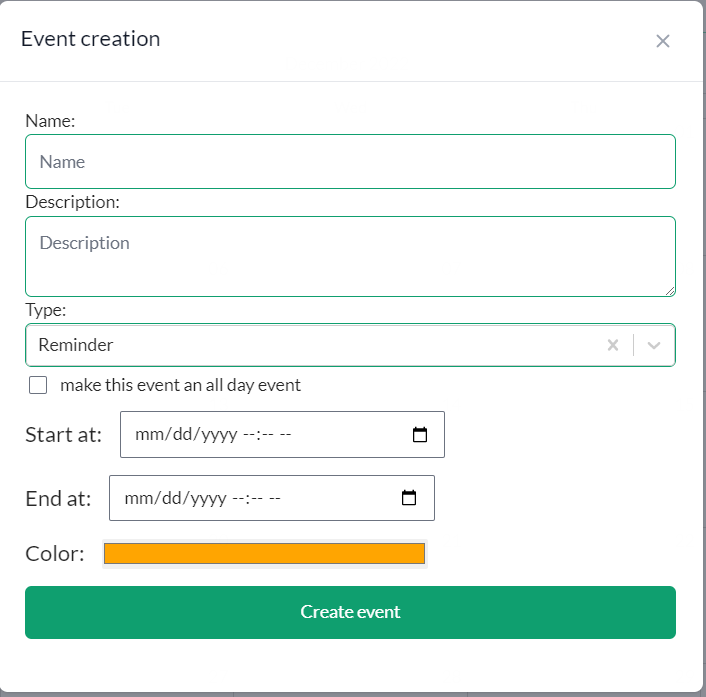
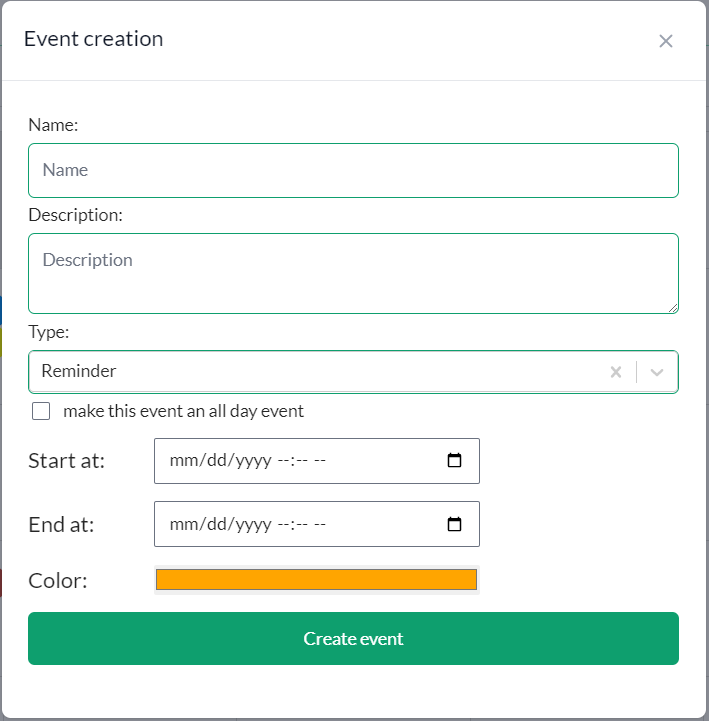
user select removed

diff --git a/client/src/components/calendar/InfoCalendarForm.jsx b/client/src/components/calendar/InfoCalendarForm.jsx
@@ -1,16 +1,14 @@
 import React, { useEffect, useState } from 'react';
 import { useDispatch, useSelector } from 'react-redux';
-import { RiFileCopy2Fill, RiMailAddLine } from 'react-icons/ri';
+import { RiFileCopy2Fill } from 'react-icons/ri';
 import { useNavigate } from 'react-router-dom';
 import { Avatar, Checkbox, Label, Button } from 'flowbite-react';
 import { CopyToClipboard } from 'react-copy-to-clipboard';
-import Select from 'react-select';
 
 import { useMessage } from '../../hooks/message.hook';
 import { Loader } from '../Loader';
 import { editCalendarOn, infoCalendarOff } from '../../store/modalSlice';
 import { deleteCalendar, updateCalendar } from '../../store/calendarSlice';
-import { usersToSelect } from '../../utils/user.utils';
 
 export const InfoCalendarForm = () => {
   const dispatch = useDispatch();
@@ -20,13 +18,7 @@ export const InfoCalendarForm = () => {
     (state) => state.calendar
   );
   const { me } = useSelector((state) => state.auth);
-  const { users, isLoading: usersLoading } = useSelector((state) => state.user);
   const [isHidden, setIsHidden] = useState(!!currentCalendar.isHidden);
-  const [userOptions, setUserOptions] = useState([]);
-
-  useEffect(() => {
-    setUserOptions(usersToSelect(users));
-  }, [usersLoading]);
 
   useEffect(() => {
     setIsHidden(!!currentCalendar.isHidden);
@@ -110,21 +102,6 @@ export const InfoCalendarForm = () => {
         && currentCalendar.type !== 'main' && (
           <>
             <div className='border-t my-3'></div>
-            <div className='flex'>
-              <Select
-                className='basic-single w-9/12 p-0 pt-2 m-0'
-                classNamePrefix='select'
-                isClearable
-                isSearchable
-                isMulti
-                name='categories'
-                options={userOptions}
-                placeholder='Type user login to invite.'
-              />
-              <button className='w-3/12 flex items-center justify-center text-white rounded-md bg-green-500 hover:bg-green-600 hover:shadow-md hover:shadow-green-400'>
-                <RiMailAddLine color='white' className='mr-3' /> Send invite
-              </button>
-            </div>
             <div className='w-full  mt-3 flex border rounded-md border-green-200'>
               <input
                 disabled

diff --git a/client/src/components/event/InfoEventForm.jsx b/client/src/components/event/InfoEventForm.jsx
@@ -2,11 +2,9 @@ import React, { useEffect, useState } from 'react';
 import { useDispatch, useSelector } from 'react-redux';
 import { useNavigate } from 'react-router-dom';
 import { Avatar, Checkbox, Label, Button } from 'flowbite-react';
-import Select from 'react-select';
 import { CopyToClipboard } from 'react-copy-to-clipboard';
-import { RiFileCopy2Fill, RiMailAddLine } from 'react-icons/ri';
+import { RiFileCopy2Fill } from 'react-icons/ri';
 import { useMessage } from '../../hooks/message.hook';
-import { usersToSelect } from '../../utils/user.utils';
 
 import { Loader } from '../Loader';
 import { deleteEvent, updateEvent } from '../../store/eventSlice';
@@ -17,15 +15,9 @@ export const InfoEventForm = () => {
   const message = useMessage();
   const navigate = useNavigate();
 
-  const { users, isLoading: usersLoading } = useSelector((state) => state.user);
   const { eventLoading, event } = useSelector((state) => state.event);
   const { me } = useSelector((state) => state.auth);
   const [isPerformed, setIsPerformed] = useState(!!event.isPerformed);
-  const [userOptions, setUserOptions] = useState([]);
-
-  useEffect(() => {
-    setUserOptions(usersToSelect(users));
-  }, [usersLoading]);
 
   useEffect(() => {
     setIsPerformed(!!event.isPerformed);
@@ -124,21 +116,6 @@ export const InfoEventForm = () => {
         && event.type !== 'holiday' && (
           <>
             <div className='border-t my-3'></div>
-            <div className='flex'>
-              <Select
-                className='basic-single w-9/12 p-0 pt-2 m-0'
-                classNamePrefix='select'
-                isClearable
-                isSearchable
-                isMulti
-                name='categories'
-                options={userOptions}
-                placeholder='Type user login to invite.'
-              />
-              <button className='w-3/12 flex items-center justify-center text-white rounded-md bg-green-500 hover:bg-green-600 hover:shadow-md hover:shadow-green-400'>
-                <RiMailAddLine color='white' className='mr-3' /> Send invite
-              </button>
-            </div>
             <div className='w-full  mt-3 flex border rounded-md border-green-200'>
               <input
                 disabled

diff --git a/client/src/components/event/CreateEventForm.jsx b/client/src/components/event/CreateEventForm.jsx
@@ -75,7 +75,7 @@ export const CreateEventForm = () => {
     <form
       onSubmit={createHandler}
       className='flex flex-col justify-center items-center w-full mb-4'>
-      <label htmlFor='name' className='self-start'>
+      <label htmlFor='name' className='self-start my-1'>
         Name:
       </label>
       <div className='flex tems-center justify-center w-full border border-green-500 rounded-md hover:shadow-md hover:shadow-green-400'>
@@ -89,7 +89,7 @@ export const CreateEventForm = () => {
           placeholder='Name'
         />
       </div>
-      <label htmlFor='desc' className='self-start'>
+      <label htmlFor='desc' className='self-start my-1'>
         Description:
       </label>
       <div className='flex items-center justify-center w-full border border-green-500 rounded-md hover:shadow-md hover:shadow-green-400'>
@@ -103,7 +103,7 @@ export const CreateEventForm = () => {
           placeholder='Description'
         />
       </div>
-      <label htmlFor='desc' className='self-start'>
+      <label htmlFor='desc' className='self-start my-1'>
         Type:
       </label>
       <div className='flex items-center w-full border border-green-500 rounded-md hover:shadow-md hover:shadow-green-400'>
@@ -133,7 +133,7 @@ export const CreateEventForm = () => {
         </label>
       </div>
       <div className='flex items-center self-start w-full'>
-        <label htmlFor='start' className='text-xl mr-3'>
+        <label htmlFor='start' className='text-xl mr-3 w-1/4 lg:w-1/6'>
           Start at:
         </label>
         <input
@@ -146,7 +146,7 @@ export const CreateEventForm = () => {
         />
       </div>
       <div className='flex items-center self-start w-full'>
-        <label htmlFor='start' className='text-xl mr-3'>
+        <label htmlFor='start' className='text-xl mr-3 w-1/4 lg:w-1/6'>
           End at:
         </label>
         <input
@@ -159,7 +159,7 @@ export const CreateEventForm = () => {
         />
       </div>
       <div className='flex items-center self-start w-full'>
-        <label htmlFor='start' className='text-xl mr-3'>
+        <label htmlFor='start' className='text-xl mr-3 w-1/4 lg:w-1/6'>
           Color:
         </label>
         <input

diff --git a/client/src/components/event/EditEventForm.jsx b/client/src/components/event/EditEventForm.jsx
@@ -153,7 +153,7 @@ export const EditEventForm = () => {
         </label>
       </div>
       <div className='flex items-center self-start w-full'>
-        <label htmlFor='start' className='text-xl mr-3'>
+        <label htmlFor='start' className='text-xl mr-3 w-1/4 lg:w-1/6'>
           Start at:
         </label>
         <input
@@ -166,7 +166,7 @@ export const EditEventForm = () => {
         />
       </div>
       <div className='flex items-center self-start w-full'>
-        <label htmlFor='start' className='text-xl mr-3'>
+        <label htmlFor='start' className='text-xl mr-3 w-1/4 lg:w-1/6'>
           End at:
         </label>
         <input
@@ -179,7 +179,7 @@ export const EditEventForm = () => {
         />
       </div>
       <div className='flex items-center self-start w-full'>
-        <label htmlFor='start' className='text-xl mr-3'>
+        <label htmlFor='start' className='text-xl mr-3 w-1/4 lg:w-1/6'>
           Color:
         </label>
         <input

diff --git a/client/src/components/event/TodayEventCard.jsx b/client/src/components/event/TodayEventCard.jsx
@@ -5,7 +5,6 @@ import { Tooltip } from 'flowbite-react';
 import { MdInfo } from 'react-icons/md';
 import { HiClock } from 'react-icons/hi';
 import { infoEventOn } from '../../store/modalSlice';
-import { getAllUsers } from '../../store/userSlice';
 import { getEvent } from '../../store/eventSlice';
 
 export const TodayEventCard = ({ event }) => {
@@ -15,7 +14,6 @@ export const TodayEventCard = ({ event }) => {
       onClick={() => {
         dispatch(getEvent({ id: event._id }));
         dispatch(infoEventOn());
-        dispatch(getAllUsers());
       }}
       className='flex border-t cursor-pointer w-11/12  mx-3 my-3 border-t-green-400  p-2 px-4 hover:bg-gradient-to-br from-green-100 animate-appear'>
       <div

diff --git a/client/src/components/calendar/BigCalendar.jsx b/client/src/components/calendar/BigCalendar.jsx
@@ -16,7 +16,6 @@ import 'react-big-calendar/lib/addons/dragAndDrop/styles.css';
 import 'react-big-calendar/lib/css/react-big-calendar.css';
 import { getEvent, updateEvent } from '../../store/eventSlice';
 import { createEventOn, infoEventOn } from '../../store/modalSlice';
-import { getAllUsers } from '../../store/userSlice';
 
 const localizer = momentLocalizer(moment);
 const DnDCalendar = withDragAndDrop(Calendar);
@@ -80,7 +79,6 @@ export const BigCalendar = ({ events }) => {
       }}
       onSelectEvent={(slotInfo) => {
         dispatch(getEvent({ id: slotInfo._id }));
-        dispatch(getAllUsers());
         dispatch(infoEventOn());
       }}
       resizable

diff --git a/client/src/components/calendar/CalendarCard.jsx b/client/src/components/calendar/CalendarCard.jsx
@@ -17,7 +17,6 @@ import {
   getCalendar,
 } from '../../store/calendarSlice';
 import { editCalendarOn, infoCalendarOn } from '../../store/modalSlice';
-import { getAllUsers } from '../../store/userSlice';
 
 export const CalendarCard = ({ calendar }) => {
   const navigate = useNavigate();
@@ -30,7 +29,6 @@ export const CalendarCard = ({ calendar }) => {
           <MdInfo
             onClick={() => {
               dispatch(getCalendar({ id: calendar._id }));
-              dispatch(getAllUsers());
               dispatch(infoCalendarOn());
             }}
             color='green'
